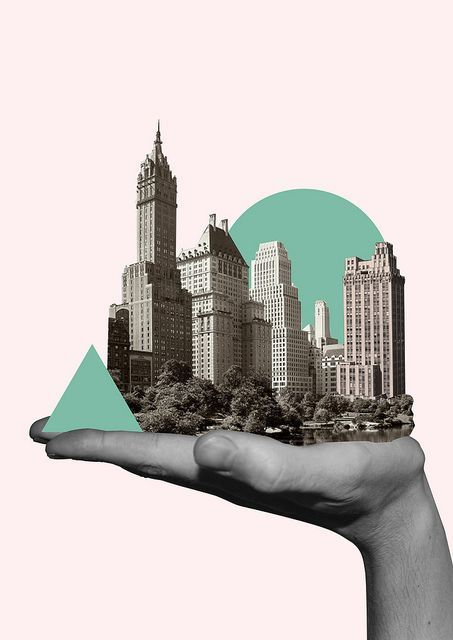
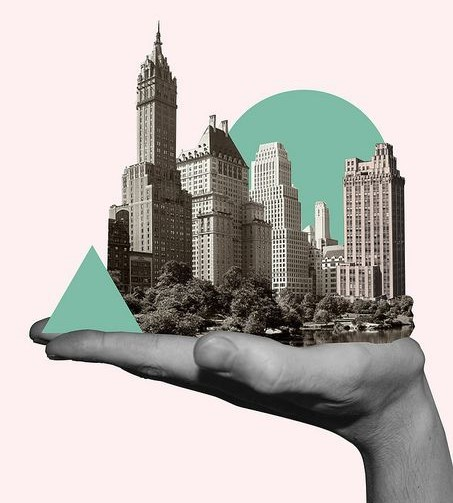
fixed image width

Changed region(s): [[0.0618, 0.0596, 0.9581, 0.7455], [0.2472, 0.7157, 0.8962, 0.9841], [0.8962, 0.7455, 1.0, 0.9245]]

diff --git a/src/componets/students/Cards.tsx b/src/componets/students/Cards.tsx
@@ -26,6 +26,7 @@ const Cards: React.FC<CardProps> = ({ title, description, index }) => {
           <img
             src={`/card${index + 1}.jpg`}
             alt={`Image for card ${index + 1}`}
+            className="object-cover"
           />
         </div>
       </div>

diff --git a/src/index.css b/src/index.css
@@ -89,7 +89,8 @@
 
 .card-img{
     flex: 1;
-    aspect-ratio: 1/1;
+    height: 250px;
+    width: 300px;
     border-radius: 0.75em;
     overflow: hidden;
 }
